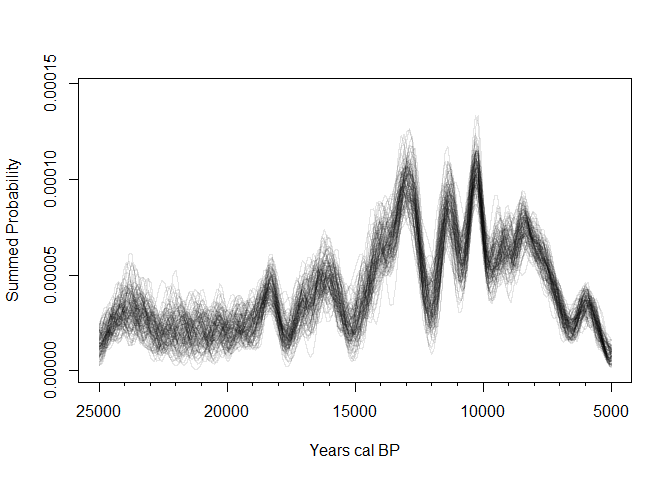
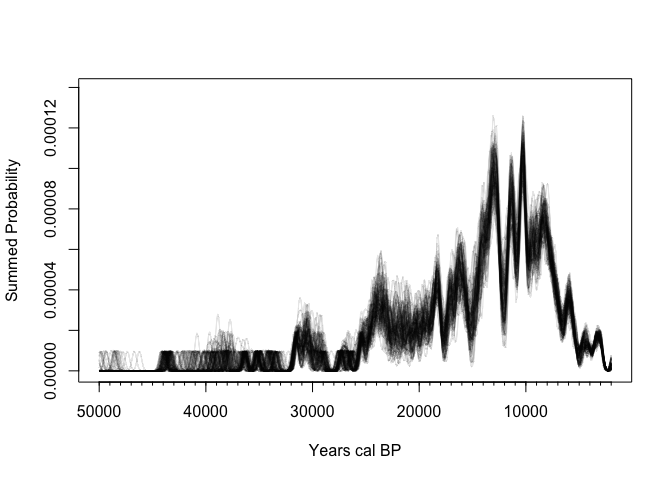
update from meeting

diff --git a/README.md b/README.md
@@ -22,9 +22,43 @@ sampled from each calibrated date to generate a kernel density estimate,
 its done multiple times which all are visualized as an envelope.
 
 ``` r
+library(tidyverse)
+```
+
+    Warning: package 'ggplot2' was built under R version 4.5.2
+
+    Warning: package 'tibble' was built under R version 4.5.2
+
+    Warning: package 'tidyr' was built under R version 4.5.2
+
+    Warning: package 'readr' was built under R version 4.5.2
+
+    Warning: package 'purrr' was built under R version 4.5.2
+
+    ── Attaching core tidyverse packages ──────────────────────── tidyverse 2.0.0 ──
+    ✔ dplyr     1.1.4     ✔ readr     2.1.6
+    ✔ forcats   1.0.1     ✔ stringr   1.6.0
+    ✔ ggplot2   4.0.1     ✔ tibble    3.3.1
+    ✔ lubridate 1.9.4     ✔ tidyr     1.3.2
+    ✔ purrr     1.2.1     
+    ── Conflicts ────────────────────────────────────────── tidyverse_conflicts() ──
+    ✖ dplyr::filter() masks stats::filter()
+    ✖ dplyr::lag()    masks stats::lag()
+    ℹ Use the conflicted package (<http://conflicted.r-lib.org/>) to force all conflicts to become errors
+
+``` r
 library(readxl)
 library(rcarbon)
+```
 
+
+    Attaching package: 'rcarbon'
+
+    The following object is masked from 'package:dplyr':
+
+        combine
+
+``` r
 # Read excel sheet with dates across Southeast Asia and southern China
 dates <- read_excel("Demographic analysis sites.xlsx")
 
@@ -44,10 +78,12 @@ dates after 14,000 BP do call for some investigation which is our
 current focus.
 
 ``` r
+age_range <- c(50000,2000)
+
 # Plotting the summed probability distribution
 spd_unbinned <- spd(
   calDates,
-  timeRange = c(25000, 5000))
+  timeRange = age_range)
 ```
 
     [1] "Extracting and aggregating..."
@@ -55,20 +91,32 @@ spd_unbinned <- spd(
 
 ``` r
 plot(spd_unbinned)
-```
 
-<div id="fig-unbinned">
+# with ggplot2
+ggplot(spd_unbinned$grid) +
+  aes(calBP, PrDens) +
+  geom_line() +
+  annotate("rect",
+           ymin = 0, ymax = Inf,
+           xmin = 26000, xmax = 19000,  # df$start[1], df$end[1]
+           colour = "red",
+           fill = "red",
+           alpha = 0.2) +
+    annotate("text",
+           x = 22000, # midpoint of start and end
+           y = 0.09,
+           label = "LGM") + # df$event_name[1]
+  scale_x_reverse() +
+  theme_minimal() 
+```
 
 ![](README_files/figure-commonmark/fig-unbinned-1.png)
 
-Figure 1: Unbinned SPD plot
+![](README_files/figure-commonmark/fig-unbinned-2.png)
 
-</div>
-
-In <a href="#fig-unbinned" class="quarto-xref">Figure 1</a> there is a
-continuous occupation of Southeast Asia from 25000 BP to present
-although there is a more consistent increase in height starting from 14
-ka.
+In **?@fig-unbinned** there is a continuous occupation of Southeast Asia
+from 25000 BP to present although there is a more consistent increase in
+height starting from 14 ka.
 
 ``` r
 # Grouping dates within 100 years of each other into bins
@@ -82,20 +130,15 @@ bins_100 <- binPrep(
 spd_res <- spd(
   calDates, 
   bins = bins_100,
-  timeRange = c(25000, 5000),
+  timeRange = age_range,
   verbose = FALSE)
+
 plot(spd_res)
 ```
 
-<div id="fig-100-bin">
-
 ![](README_files/figure-commonmark/fig-100-bin-1.png)
 
-Figure 2: SPD plot with a bin of 100 years
-
-</div>
-
-In <a href="#fig-100-bin" class="quarto-xref">Figure 2</a> the peaks are
+In <a href="#fig-100-bin" class="quarto-xref">Figure 3</a> the peaks are
 consistent but grow more intense the only exceptions being the hills
 just before 15 ka and just after 10 ka are a little depressed from the
 binning compared to the rest of the peaks.
@@ -112,20 +155,15 @@ bins_200 <- binPrep(
 spd_res <- spd(
   calDates, 
   bins = bins_200,
-  timeRange = c(25000, 5000),
+  timeRange = age_range,
   verbose = FALSE)
+
 plot(spd_res)
 ```
 
-<div id="fig-200-bin">
-
 ![](README_files/figure-commonmark/fig-200-bin-1.png)
 
-Figure 3: SPD plot with a bin of 200 years
-
-</div>
-
-In <a href="#fig-200-bin" class="quarto-xref">Figure 3</a> the changes
+In <a href="#fig-200-bin" class="quarto-xref">Figure 4</a> the changes
 are more noticeable as the peak around 13 ka and just before 10 ka is
 much higher than the original plot.
 
@@ -141,20 +179,14 @@ bins_500 <- binPrep(
 spd_res <- spd(
   calDates, 
   bins = bins_500,
-  timeRange = c(25000, 5000),
+  timeRange = age_range,
   verbose = FALSE)
 plot(spd_res)
 ```
 
-<div id="fig-500-bin">
-
 ![](README_files/figure-commonmark/fig-500-bin-1.png)
 
-Figure 4: SPD plot with a bin of 500 years
-
-</div>
-
-In <a href="#fig-500-bin" class="quarto-xref">Figure 4</a> the peaks
+In <a href="#fig-500-bin" class="quarto-xref">Figure 5</a> the peaks
 around 13 ka are even more intense but the hill around 14 ka depresses a
 little, the peak just before 10 ka also lowers considerably compared to
 the original plot.
@@ -171,20 +203,14 @@ bins_5000 <- binPrep(
 spd_res <- spd(
   calDates, 
   bins = bins_5000,
-  timeRange = c(25000, 5000),
+  timeRange = age_range,
   verbose = FALSE)
 plot(spd_res)
 ```
 
-<div id="fig-5000-bin">
-
 ![](README_files/figure-commonmark/fig-5000-bin-1.png)
 
-Figure 5: SPD plot with a bin of 5000 years
-
-</div>
-
-In <a href="#fig-5000-bin" class="quarto-xref">Figure 5</a> a lot of the
+In <a href="#fig-5000-bin" class="quarto-xref">Figure 6</a> a lot of the
 hills depress however a couple of them spike up into their own peaks
 especially around 25-23 ka, 17 ka, and 12 ka.
 
@@ -205,7 +231,7 @@ calDates2 = calDates[thinDates(ages = dates$C14Age,
 
 spd_thin <- spd(
   calDates2,
-  timeRange = c(25000, 5000)
+  timeRange = age_range
 )
 ```
 
@@ -217,15 +243,9 @@ spd_thin <- spd(
 plot(spd_thin)
 ```
 
-<div id="fig-thinned">
-
 ![](README_files/figure-commonmark/fig-thinned-1.png)
 
-Figure 6: SPD plot with thinning
-
-</div>
-
-In <a href="#fig-thinned" class="quarto-xref">Figure 6</a> the thinning
+In <a href="#fig-thinned" class="quarto-xref">Figure 7</a> the thinning
 caused more mild variation like the 100 and 200 year bins but the peaks
 around 13 and 12 ka intensify and the one just after 10 ka depresses.
 
@@ -241,20 +261,15 @@ bins_200 <- binPrep(
 ckde_res = sampleDates(calDates,bins=bins_200,nsim=100,verbose=FALSE)
 
 Sea.ckde = ckde(ckde_res,
-                timeRange = c(25000, 5000),
+                timeRange = age_range,
                 bw = 200)
+
 #Plotting the CKDE
 plot(Sea.ckde, type = 'multiline')
 ```
 
-<div id="fig-CKDE">
-
 ![](README_files/figure-commonmark/fig-CKDE-1.png)
 
-Figure 7: CKDE plot
-
-</div>
-
-In <a href="#fig-CKDE" class="quarto-xref">Figure 7</a> the bands show a
+In <a href="#fig-CKDE" class="quarto-xref">Figure 8</a> the bands show a
 consistent occupation but support the notion of increased intensity
 starting from 14 ka.
